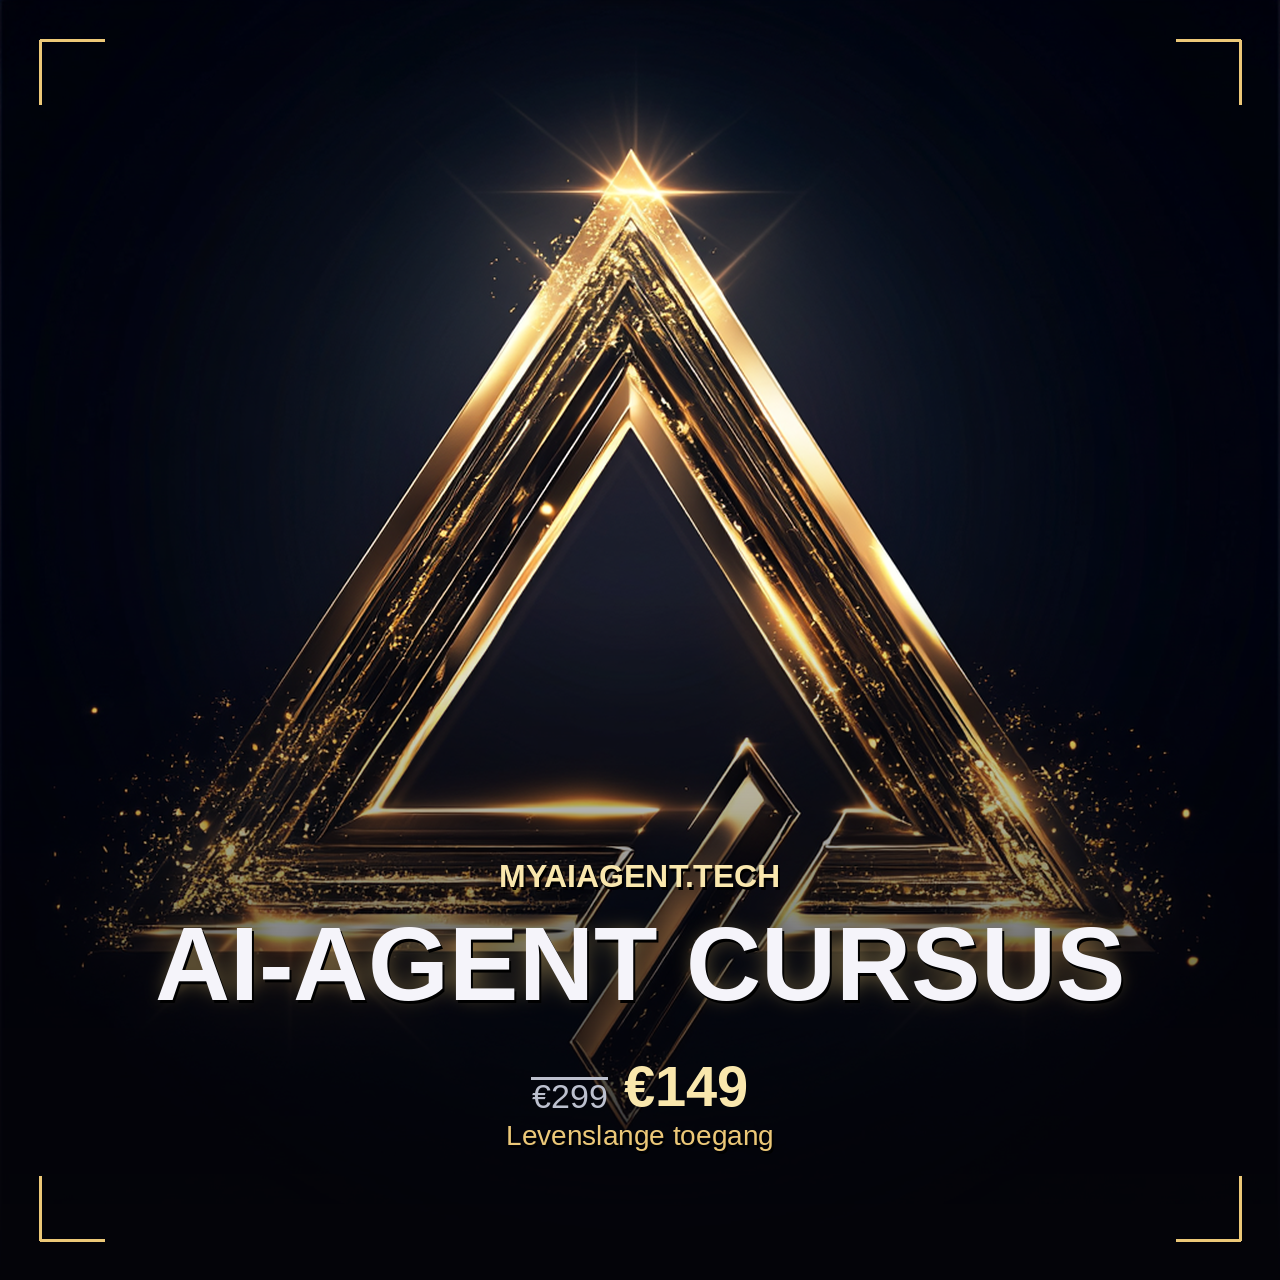
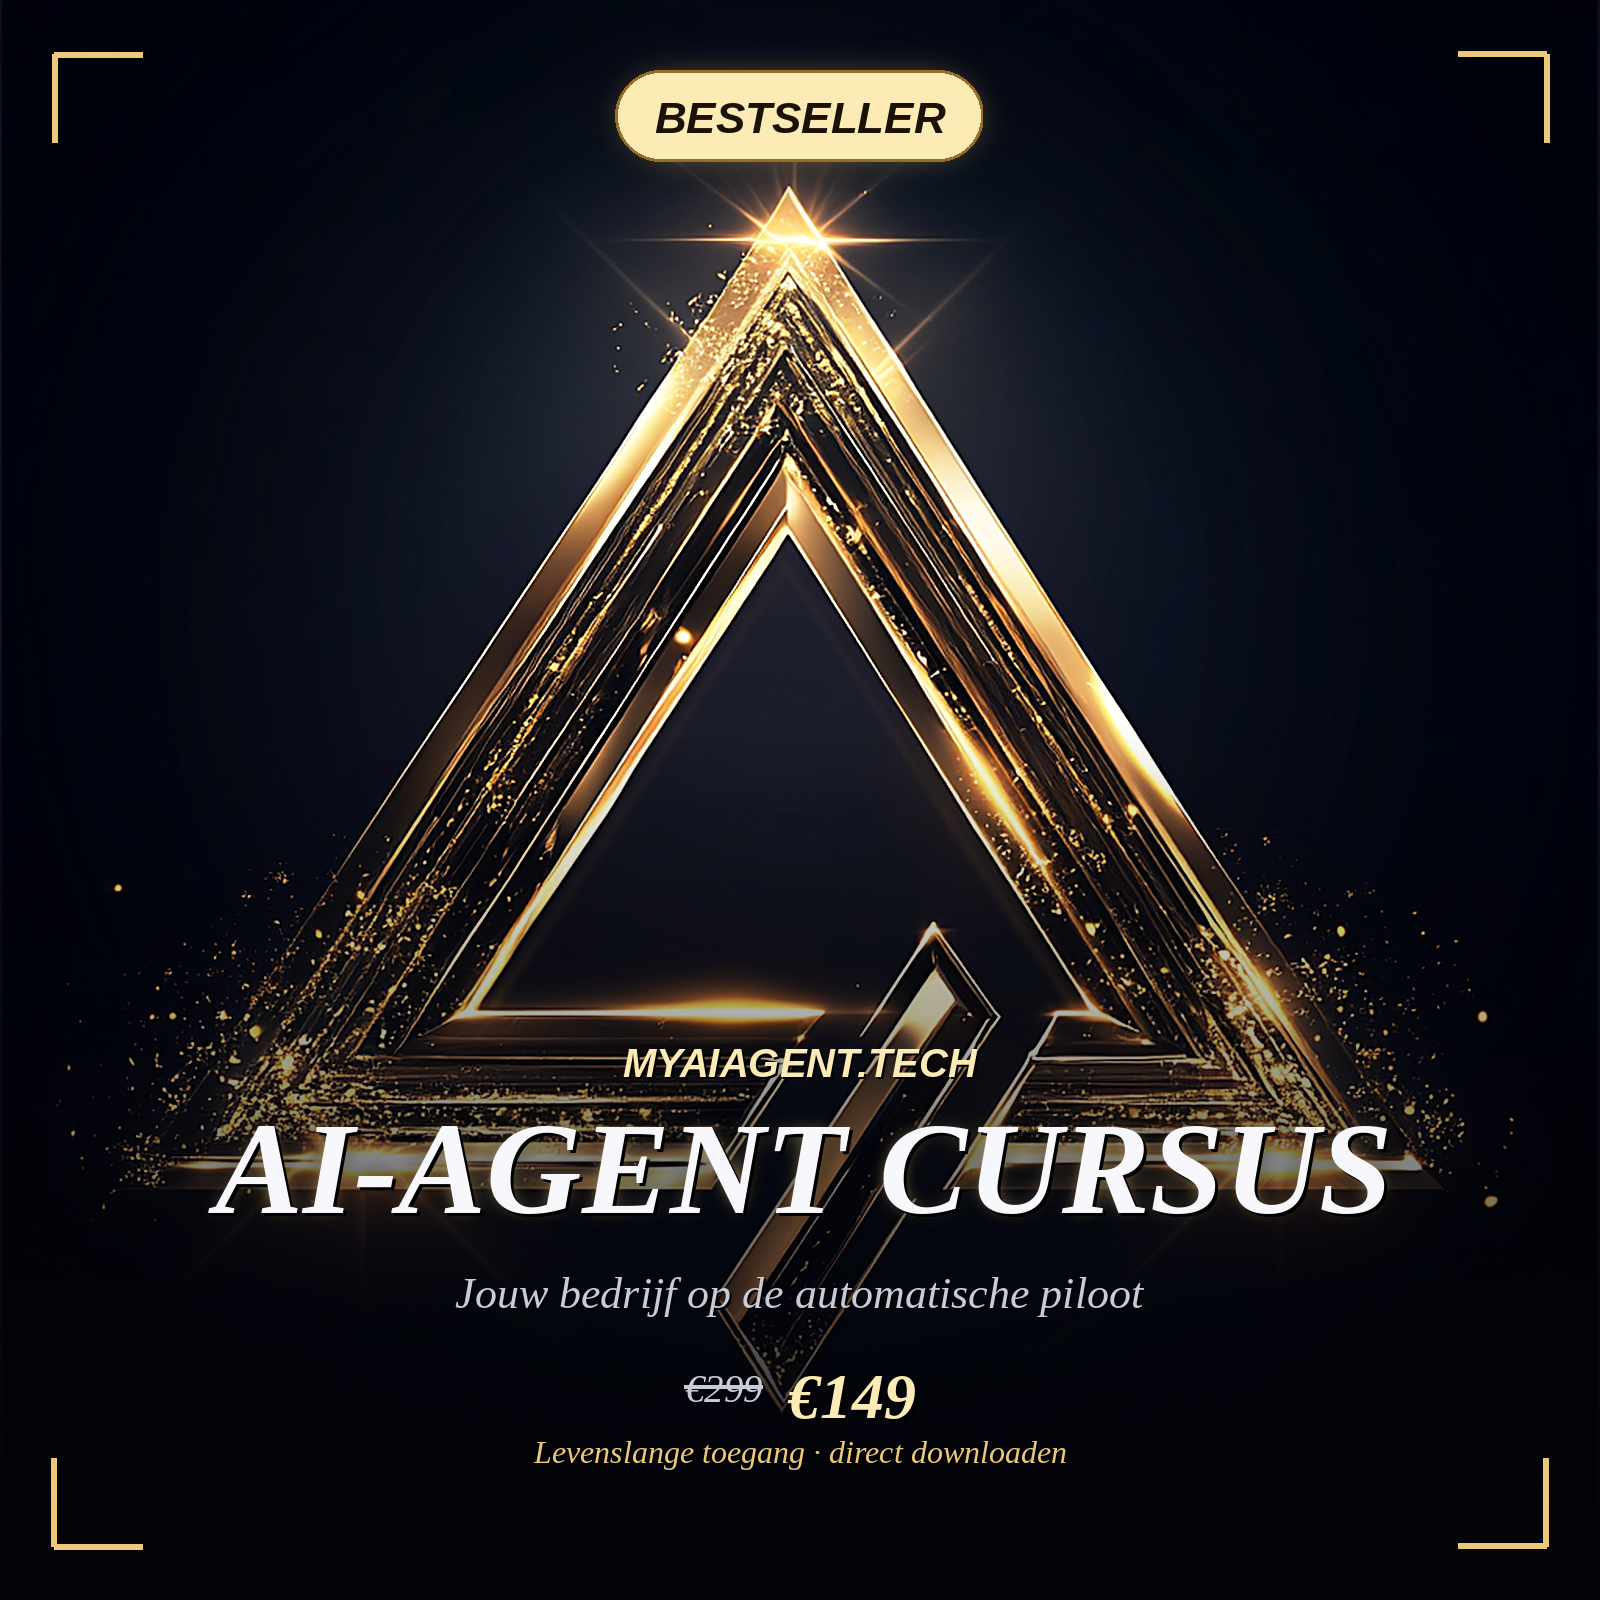
Sharper hi-res listing images: chic italic serif, BESTSELLER badge, emotional copy
Render cover at 1920x1080 and thumbnail at 1600x1600 with unsharp masking,
switch display type to an elegant slanted serif (Liberation Serif Bold
Italic), add a gold BESTSELLER badge and aspirational taglines.

https://claude.ai/code/session_01X8zdoAxXmr4GMSK1XA2L1h

diff --git a/generate_listing.py b/generate_listing.py
@@ -1,6 +1,6 @@
 #!/usr/bin/env python3
-"""Build the Gumroad cover (from the golden AI figure) and thumbnail (from the
-logo), with a luxe gold text + price overlay."""
+"""Gumroad cover + thumbnail in high resolution: sharp imagery, crisp text,
+a BESTSELLER badge and emotional, aspirational copy."""
 import os
 from PIL import Image, ImageDraw, ImageFont, ImageFilter
 
@@ -11,80 +11,102 @@ FIGURE = UP + "0c0fdae0-mimi20228075__de2a41f026ab4e928aae17021a642fe7.png"
 LOGO = UP + "ad91d89d-My_AI_Agent_Dubai.png"
 FONTS = "/usr/share/fonts/truetype/liberation/"
 def font(n, s): return ImageFont.truetype(FONTS + n, s)
-BOLD, REG = "LiberationSans-Bold.ttf", "LiberationSans-Regular.ttf"
-GOLD, GOLD_BR, WHITE, DIM = (236, 200, 120), (249, 231, 173), (245, 244, 250), (188, 192, 206)
+BOLD, REG = "LiberationSerif-BoldItalic.ttf", "LiberationSerif-Italic.ttf"  # chic, slanted, legible
+SANS_BI = "LiberationSans-BoldItalic.ttf"
+GOLD, GOLD_BR, WHITE, DIM, INK = (236, 200, 120), (252, 235, 180), (248, 247, 252), (200, 204, 216), (26, 19, 5)
 
-def cover_crop(im, w, h):
+def cover_crop(im, w, h, sharpen=120):
     iw, ih = im.size; s = max(w / iw, h / ih)
-    im = im.resize((int(iw * s + 1), int(ih * s + 1)), Image.LANCZOS)
+    im = im.resize((round(iw * s), round(ih * s)), Image.LANCZOS)
     iw, ih = im.size
-    return im.crop(((iw - w) // 2, (ih - h) // 2, (iw - w) // 2 + w, (ih - h) // 2 + h))
+    im = im.crop(((iw - w) // 2, (ih - h) // 2, (iw - w) // 2 + w, (ih - h) // 2 + h))
+    if sharpen: im = im.filter(ImageFilter.UnsharpMask(radius=2.4, percent=sharpen, threshold=2))
+    return im
 
 def vgrad(w, h, top_a, bot_a, start=0.0):
-    """Vertical black gradient alpha (transparent top -> dark bottom)."""
     g = Image.new("L", (1, h), 0); px = g.load()
     for y in range(h):
         f = max(0.0, (y / h - start) / (1 - start)) if start < 1 else 0
-        px[0, y] = int((top_a + (bot_a - top_a) * f))
-    g = g.resize((w, h))
-    blk = Image.new("RGBA", (w, h), (4, 4, 9, 255)); blk.putalpha(g); return blk
+        px[0, y] = int(top_a + (bot_a - top_a) * f)
+    blk = Image.new("RGBA", (w, h), (4, 4, 9, 255)); blk.putalpha(g.resize((w, h))); return blk
 
-def text(c, cx, y, s, fnt, fill, center=True, glow=False, left=None):
+def text(c, cx, y, s, fnt, fill, center=True, glow=0, left=None, shadow=3):
     d = ImageDraw.Draw(c); bb = d.textbbox((0, 0), s, font=fnt); tw = bb[2] - bb[0]
     x = (cx - tw / 2 - bb[0]) if center else left
     if glow:
         gl = Image.new("RGBA", c.size, (0, 0, 0, 0))
-        ImageDraw.Draw(gl).text((x, y), s, font=fnt, fill=(236, 200, 120, 235))
-        c.alpha_composite(gl.filter(ImageFilter.GaussianBlur(12)))
-    d.text((x + 2, y + 3), s, font=fnt, fill=(0, 0, 0, 150))
+        ImageDraw.Draw(gl).text((x, y), s, font=fnt, fill=(236, 200, 120, 220))
+        c.alpha_composite(gl.filter(ImageFilter.GaussianBlur(glow)))
+    if shadow: d.text((x + shadow, y + shadow), s, font=fnt, fill=(0, 0, 0, 170))
     d.text((x, y), s, font=fnt, fill=fill)
     return tw
 
-def corners(c, pad, ln=44):
-    d = ImageDraw.Draw(c); w, h = c.size; col = (236, 200, 120, 200)
-    for x, y, dx, dy in [(pad, pad, 1, 0), (pad, pad, 0, 1), (w - pad, pad, -1, 0), (w - pad, pad, 0, 1),
-                          (pad, h - pad, 1, 0), (pad, h - pad, 0, -1), (w - pad, h - pad, -1, 0), (w - pad, h - pad, 0, -1)]:
-        d.line([(x, y), (x + dx * ln, y + dy * ln)], fill=col, width=3)
+def corners(c, pad, ln, w=4):
+    d = ImageDraw.Draw(c); W, H = c.size; col = (236, 200, 120, 210)
+    for x, y, dx, dy in [(pad, pad, 1, 0), (pad, pad, 0, 1), (W - pad, pad, -1, 0), (W - pad, pad, 0, 1),
+                          (pad, H - pad, 1, 0), (pad, H - pad, 0, -1), (W - pad, H - pad, -1, 0), (W - pad, H - pad, 0, -1)]:
+        d.line([(x, y), (x + dx * ln, y + dy * ln)], fill=col, width=w)
 
-def logo_mask(size):
-    lg = Image.open(LOGO).convert("RGB").resize((size, size), Image.LANCZOS)
-    m = lg.convert("L").point(lambda p: 0 if p < 38 else min(255, int((p - 38) * 1.7)))
-    return lg, m
+def badge(c, cx, cy, label, fs):
+    d = ImageDraw.Draw(c); f = font(SANS_BI, fs)
+    tw = d.textlength(label, font=f); padx, pady = int(fs * .9), int(fs * .55)
+    w, h = tw + 2 * padx, fs + 2 * pady; x0, y0 = cx - w / 2, cy
+    glow = Image.new("RGBA", c.size, (0, 0, 0, 0))
+    ImageDraw.Draw(glow).rounded_rectangle([x0, y0, x0 + w, y0 + h], radius=h / 2, fill=(236, 200, 120, 150))
+    c.alpha_composite(glow.filter(ImageFilter.GaussianBlur(fs * .5)))
+    grad = Image.new("L", (1, int(h)), 0)
+    for i in range(int(h)): grad.load()[0, i] = int(255 - 70 * (i / h))
+    pill = Image.new("RGBA", (int(w), int(h)), (0, 0, 0, 0))
+    base = Image.new("RGBA", (int(w), int(h)), GOLD_BR + (255,))
+    base.putalpha(grad.resize((int(w), int(h))).point(lambda p: 255))
+    tint = Image.new("RGBA", (int(w), int(h)), (0, 0, 0, 0))
+    ImageDraw.Draw(tint).rounded_rectangle([0, 0, w - 1, h - 1], radius=h / 2, fill=GOLD_BR + (255,), outline=(150, 110, 40, 255), width=3)
+    mask = Image.new("L", (int(w), int(h)), 0)
+    ImageDraw.Draw(mask).rounded_rectangle([0, 0, w - 1, h - 1], radius=h / 2, fill=255)
+    c.paste(tint, (int(x0), int(y0)), mask)
+    d.text((cx - tw / 2, y0 + pady - 1), label, font=f, fill=INK)
 
-def price(c, cx, y, big=46):
+def price(c, cx, y, big):
     d = ImageDraw.Draw(c); fo, fn, fs = font(REG, int(big * .62)), font(BOLD, big), font(REG, int(big * .5))
     old, new = "€299", "€149"
-    wo, wn = d.textlength(old, font=fo), d.textlength(new, font=fn); gap = 16; x = cx - (wo + gap + wn) / 2
-    d.text((x, y + (big - int(big * .62)) // 1), old, font=fo, fill=DIM)
-    d.line([(x, y + int(big * .42)), (x + wo, y + int(big * .42))], fill=DIM, width=3)
+    wo, wn = d.textlength(old, font=fo), d.textlength(new, font=fn); gap = int(big * .4); x = cx - (wo + gap + wn) / 2
+    d.text((x, y + int(big * .12)), old, font=fo, fill=DIM)
+    d.line([(x, y + int(big * .42)), (x + wo, y + int(big * .42))], fill=DIM, width=4)
+    d.text((x + wo + gap + 3, y + 3), new, font=fn, fill=(0, 0, 0, 160))
     d.text((x + wo + gap, y), new, font=fn, fill=GOLD_BR)
-    text(c, cx, y + big + 8, "Levenslange toegang", fs, GOLD)
+    text(c, cx, y + big + 10, "Levenslange toegang · direct downloaden", fs, GOLD, shadow=2)
 
 def make_cover():
-    W, H = 1280, 720
+    W, H = 1920, 1080
     c = cover_crop(Image.open(FIGURE).convert("RGB"), W, H).convert("RGBA")
-    c.alpha_composite(vgrad(W, H, 30, 250, start=0.30))                       # bottom scrim
-    side = Image.new("RGBA", (W, H), (0, 0, 0, 0))                            # slight left scrim
-    sg = Image.new("L", (W, 1), 0)
-    for x in range(W): sg.load()[x, 0] = int(150 * max(0, 1 - x / (W * 0.55)))
+    c.alpha_composite(vgrad(W, H, 24, 252, start=0.30))
+    side = Image.new("RGBA", (W, H), (0, 0, 0, 0)); sg = Image.new("L", (W, 1), 0)
+    for x in range(W): sg.load()[x, 0] = int(160 * max(0, 1 - x / (W * 0.6)))
     side.putalpha(sg.resize((W, H))); c.alpha_composite(side)
-    corners(c, 26)
-    lg, m = logo_mask(70); c.paste(lg, (44, 40), m)
-    text(c, 0, 52, "MYAIAGENT.TECH", font(BOLD, 26), GOLD_BR, center=False, left=128)
-    text(c, W / 2, 452, "Bouw een AI-agent", font(BOLD, 62), WHITE, glow=True)
-    text(c, W / 2, 522, "die zélf een bedrijf runt", font(BOLD, 62), GOLD_BR, glow=True)
-    price(c, W / 2, 612, 44)
-    c.convert("RGB").save(os.path.join(OUT, "gumroad-cover.png")); print("cover done")
+    corners(c, 40, 70, 5)
+    lg = Image.open(LOGO).convert("RGB").resize((104, 104), Image.LANCZOS)
+    m = lg.convert("L").point(lambda p: 0 if p < 38 else min(255, int((p - 38) * 1.7)))
+    c.paste(lg, (66, 60), m)
+    text(c, 0, 84, "MYAIAGENT.TECH", font(SANS_BI, 38), GOLD_BR, center=False, left=188, shadow=2)
+    badge(c, W - 260, 64, "BESTSELLER", 36)
+    text(c, W / 2, 612, "Bouw een AI-agent", font(BOLD, 96), WHITE, glow=10)
+    text(c, W / 2, 720, "die zélf een bedrijf runt", font(BOLD, 96), GOLD_BR, glow=10)
+    text(c, W / 2, 848, "Laat slimme AI het werk doen — en verdien terwijl jij leeft.", font(REG, 40), WHITE, shadow=2)
+    price(c, W / 2, 922, 60)
+    c.convert("RGB").save(os.path.join(OUT, "gumroad-cover.png")); print("cover", c.size)
 
 def make_thumb():
-    W = 1280
-    c = Image.open(LOGO).convert("RGB").resize((W, W), Image.LANCZOS).convert("RGBA")
-    c.alpha_composite(vgrad(W, W, 0, 252, start=0.46))
-    corners(c, 40, 64)
-    text(c, W / 2, 858, "MYAIAGENT.TECH", font(BOLD, 32), GOLD_BR)
-    text(c, W / 2, 905, "AI-AGENT CURSUS", font(BOLD, 104), WHITE, glow=True)
-    price(c, W / 2, 1055, 56)
-    c.convert("RGB").save(os.path.join(OUT, "gumroad-thumbnail.png")); print("thumb done")
+    W = 1600
+    c = Image.open(LOGO).convert("RGB").resize((W, W), Image.LANCZOS)
+    c = c.filter(ImageFilter.UnsharpMask(radius=2, percent=90, threshold=2)).convert("RGBA")
+    c.alpha_composite(vgrad(W, W, 0, 250, start=0.45))
+    corners(c, 54, 88, 6)
+    badge(c, W / 2, 70, "BESTSELLER", 44)
+    text(c, W / 2, 1040, "MYAIAGENT.TECH", font(SANS_BI, 40), GOLD_BR, shadow=2)
+    text(c, W / 2, 1095, "AI-AGENT CURSUS", font(BOLD, 132), WHITE, glow=10)
+    text(c, W / 2, 1268, "Jouw bedrijf op de automatische piloot", font(REG, 44), DIM, shadow=2)
+    price(c, W / 2, 1360, 64)
+    c.convert("RGB").save(os.path.join(OUT, "gumroad-thumbnail.png")); print("thumb", c.size)
 
 if __name__ == "__main__":
     make_cover(); make_thumb(); print("Done.")
